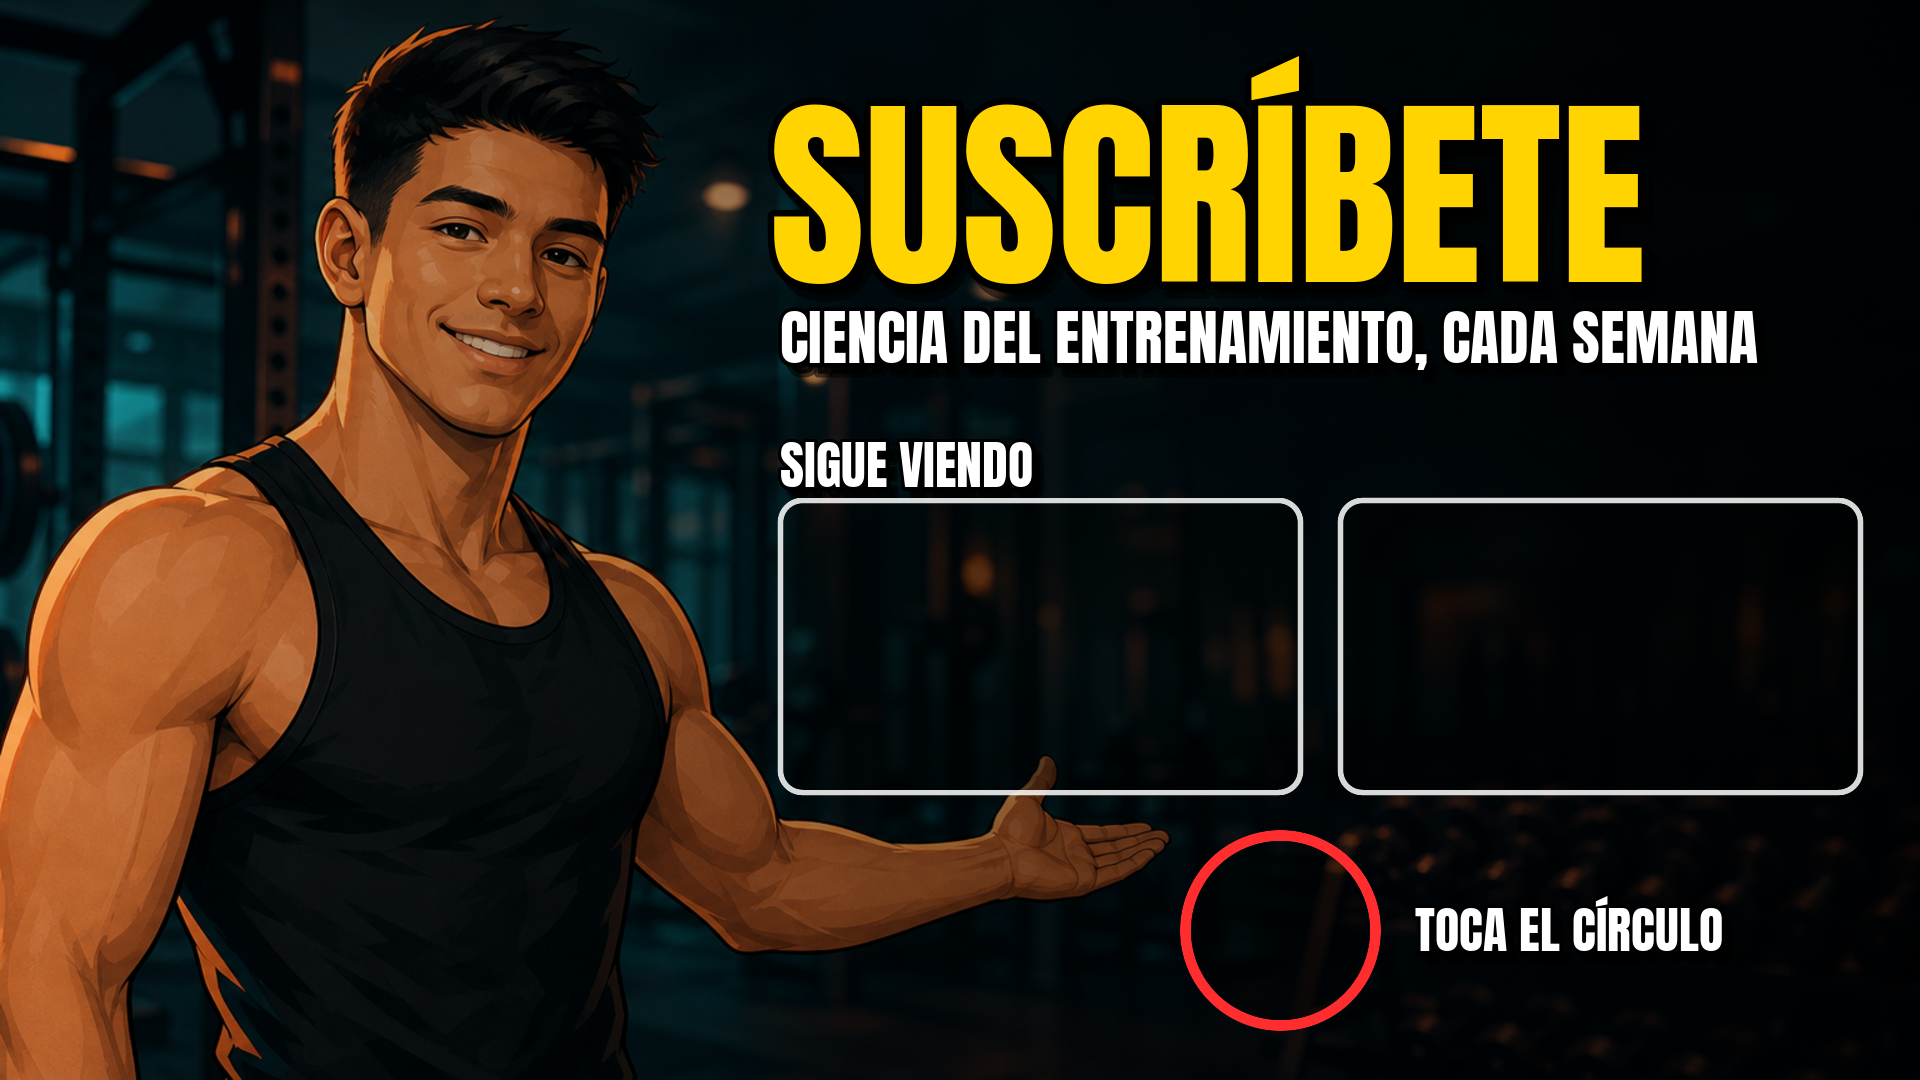
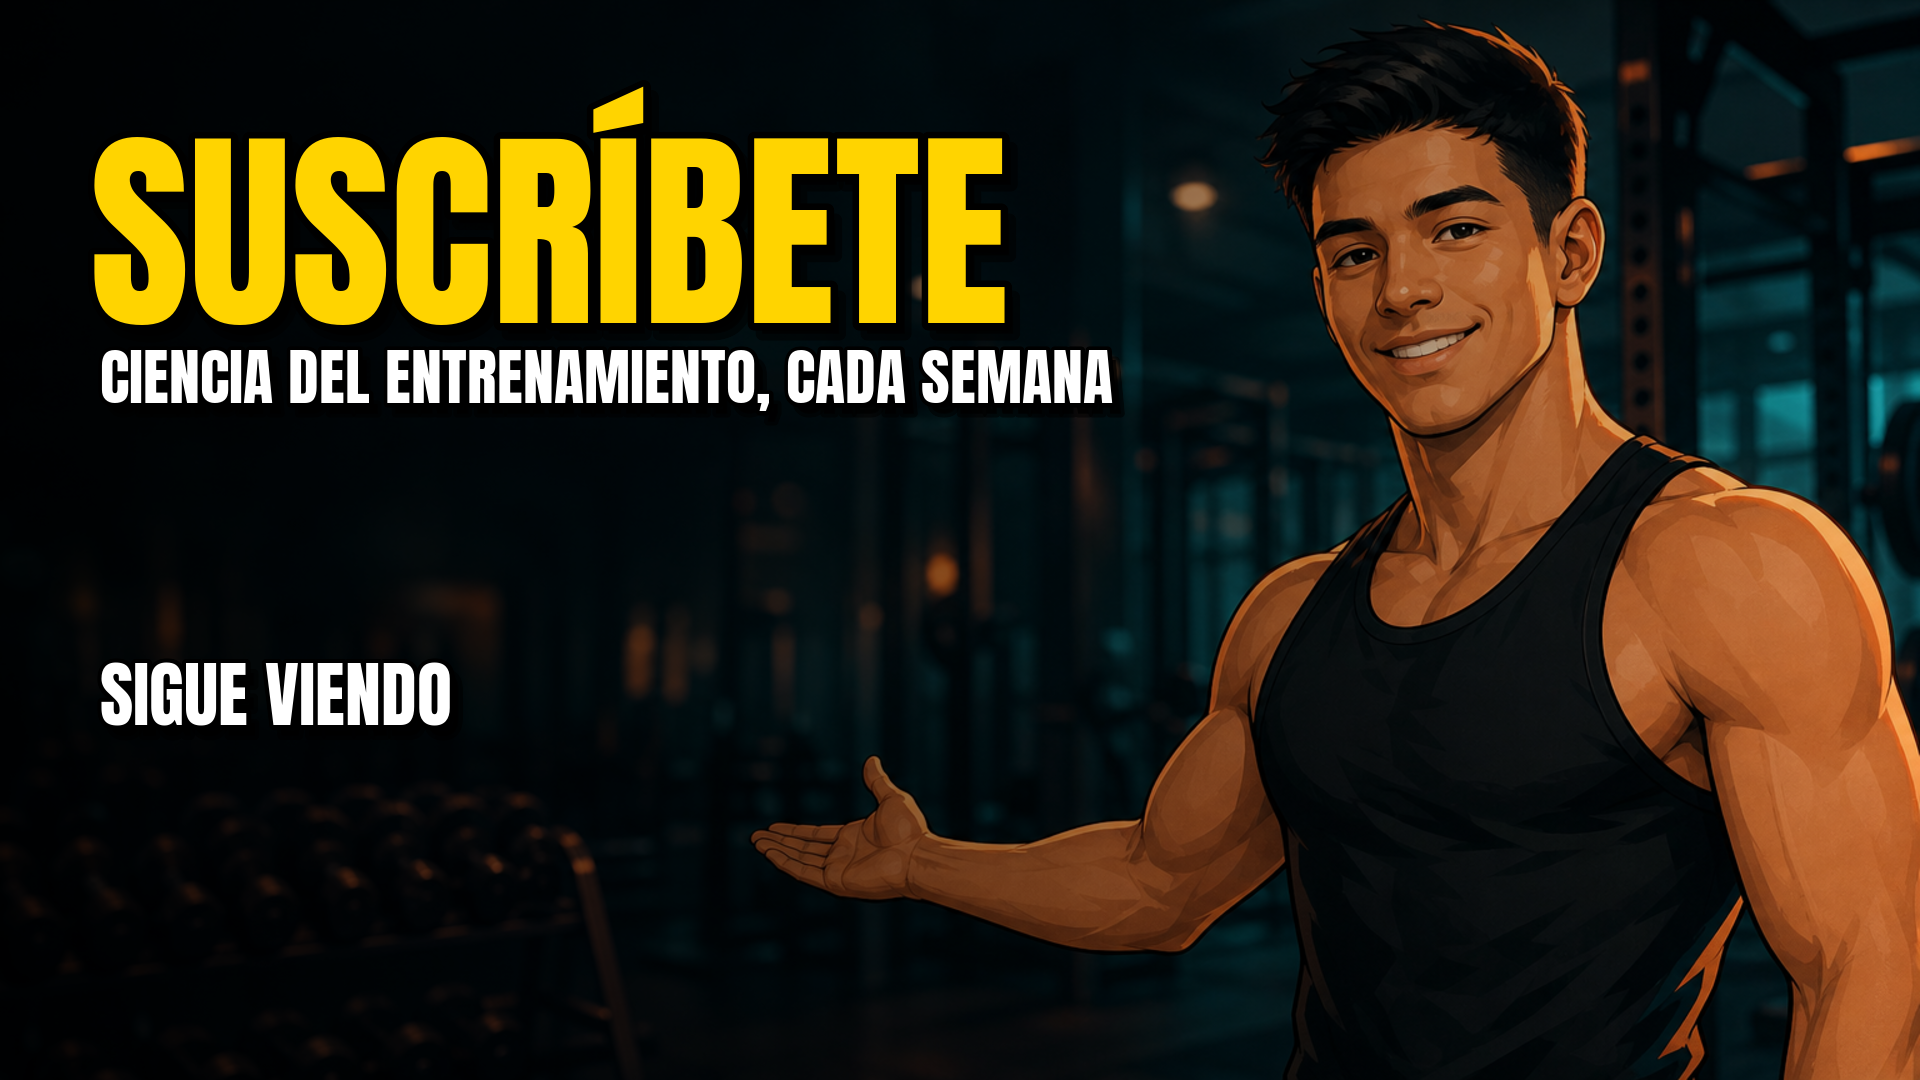
Pantalla final limpia (sin huecos ni circulo) para el video 3
Claude-Session: https://claude.ai/code/session_01DpfepauLSW43jGdo3BQttf

diff --git a/herramientas/pantalla_final.py b/herramientas/pantalla_final.py
@@ -67,9 +67,22 @@ def componer(fondo, salida, guia=False):
         g += ["-pointsize", "34", "-annotate", f"+{cx-78}+{cy-24}", "SUSCRIBIRSE", salida.replace(".png", "_guia.png")]
         subprocess.run(g, check=True)
 
+def componer_limpia(fondo, salida):
+    """Pantalla final SIN huecos ni círculo (los elementos los coloca el usuario en Studio donde quiera): personaje a la derecha (fondo
+    volteado), SUSCRÍBETE al centro-izquierda y SIGUE VIENDO a la izquierda, con la zona izquierda y central libre."""
+    a = ["convert", fondo, "-resize", "1920x1080^", "-gravity", "center", "-extent", "1920x1080", "-flop",
+         "(", "-size", "1080x1920", "gradient:rgba(0,0,0,0.80)-rgba(0,0,0,0)", "-rotate", "-90", ")", "-compose", "over", "-composite",
+         "-gravity", "NorthWest"]
+    a += texto("black", "#FFD400", 215, 90, 70, TITULO, grosor=14)
+    a += texto("black", "white", 62, 100, 330, LEMA, grosor=8)
+    a += texto("black", "white", 72, 100, 640, ENCABEZADO, grosor=9)
+    a += [salida]
+    subprocess.run(a, check=True)
+
 if __name__ == "__main__":
     args = [x for x in sys.argv[1:] if not x.startswith("--")]
     fondo, salida = args[0], args[1]
     if "--generar" in sys.argv and not os.path.exists(fondo): generar_fondo(fondo)
-    componer(fondo, salida, "--guia" in sys.argv)
+    if "--limpia" in sys.argv: componer_limpia(fondo, salida)
+    else: componer(fondo, salida, "--guia" in sys.argv)
     print("listo", salida)
